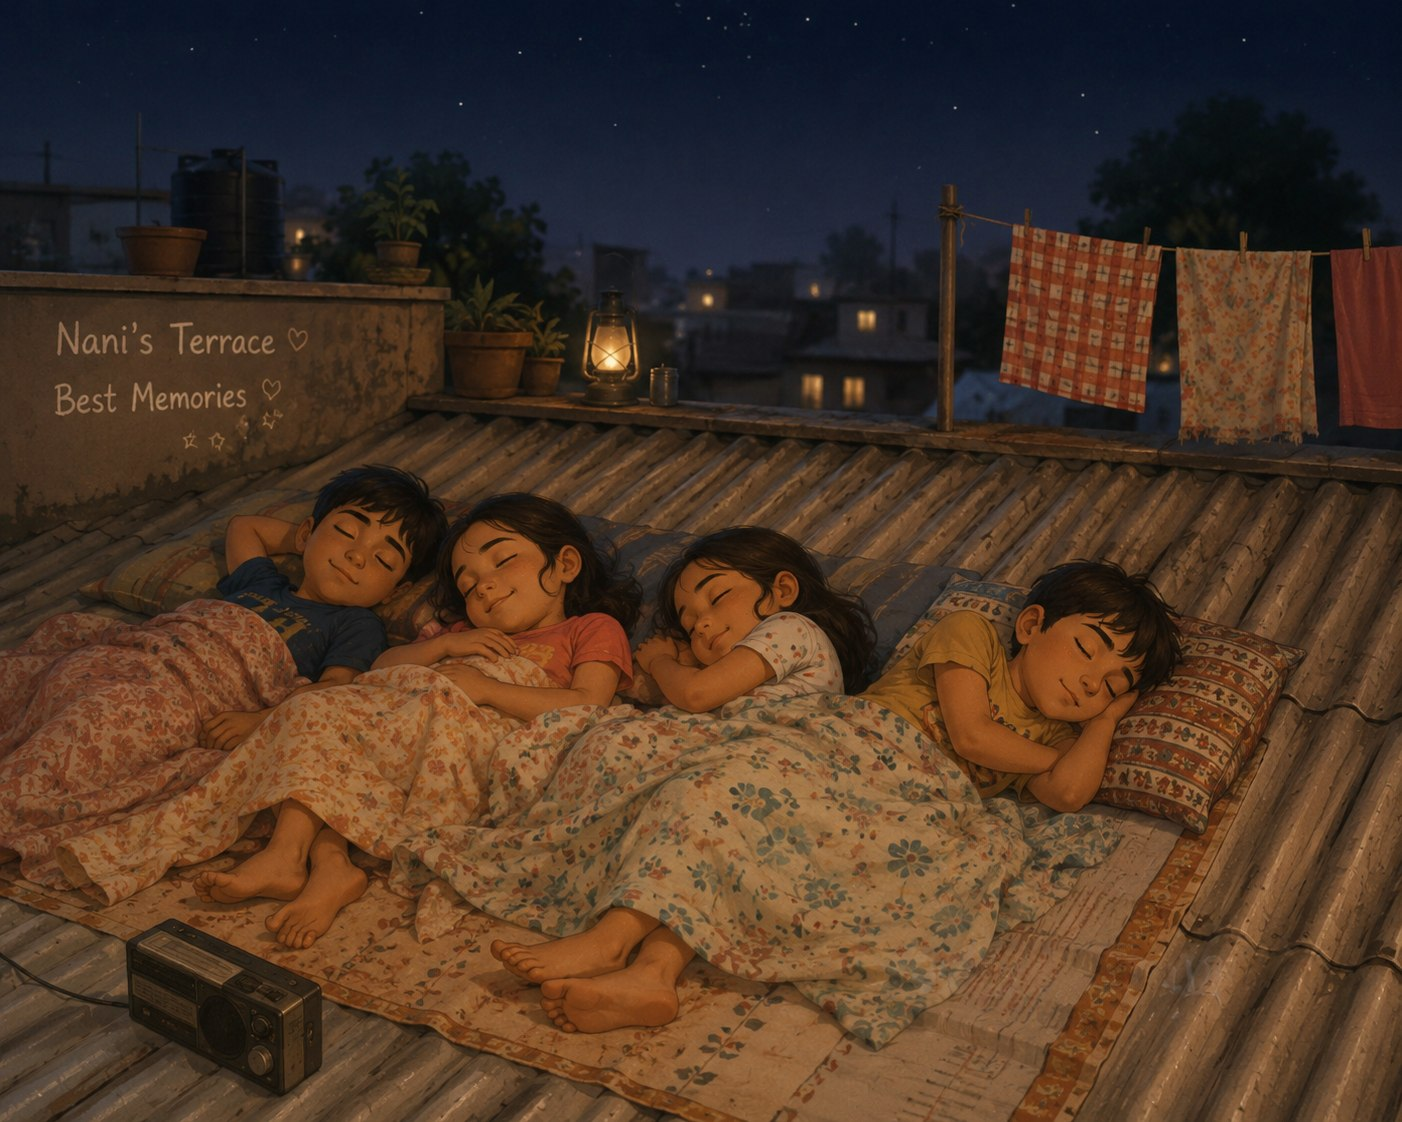
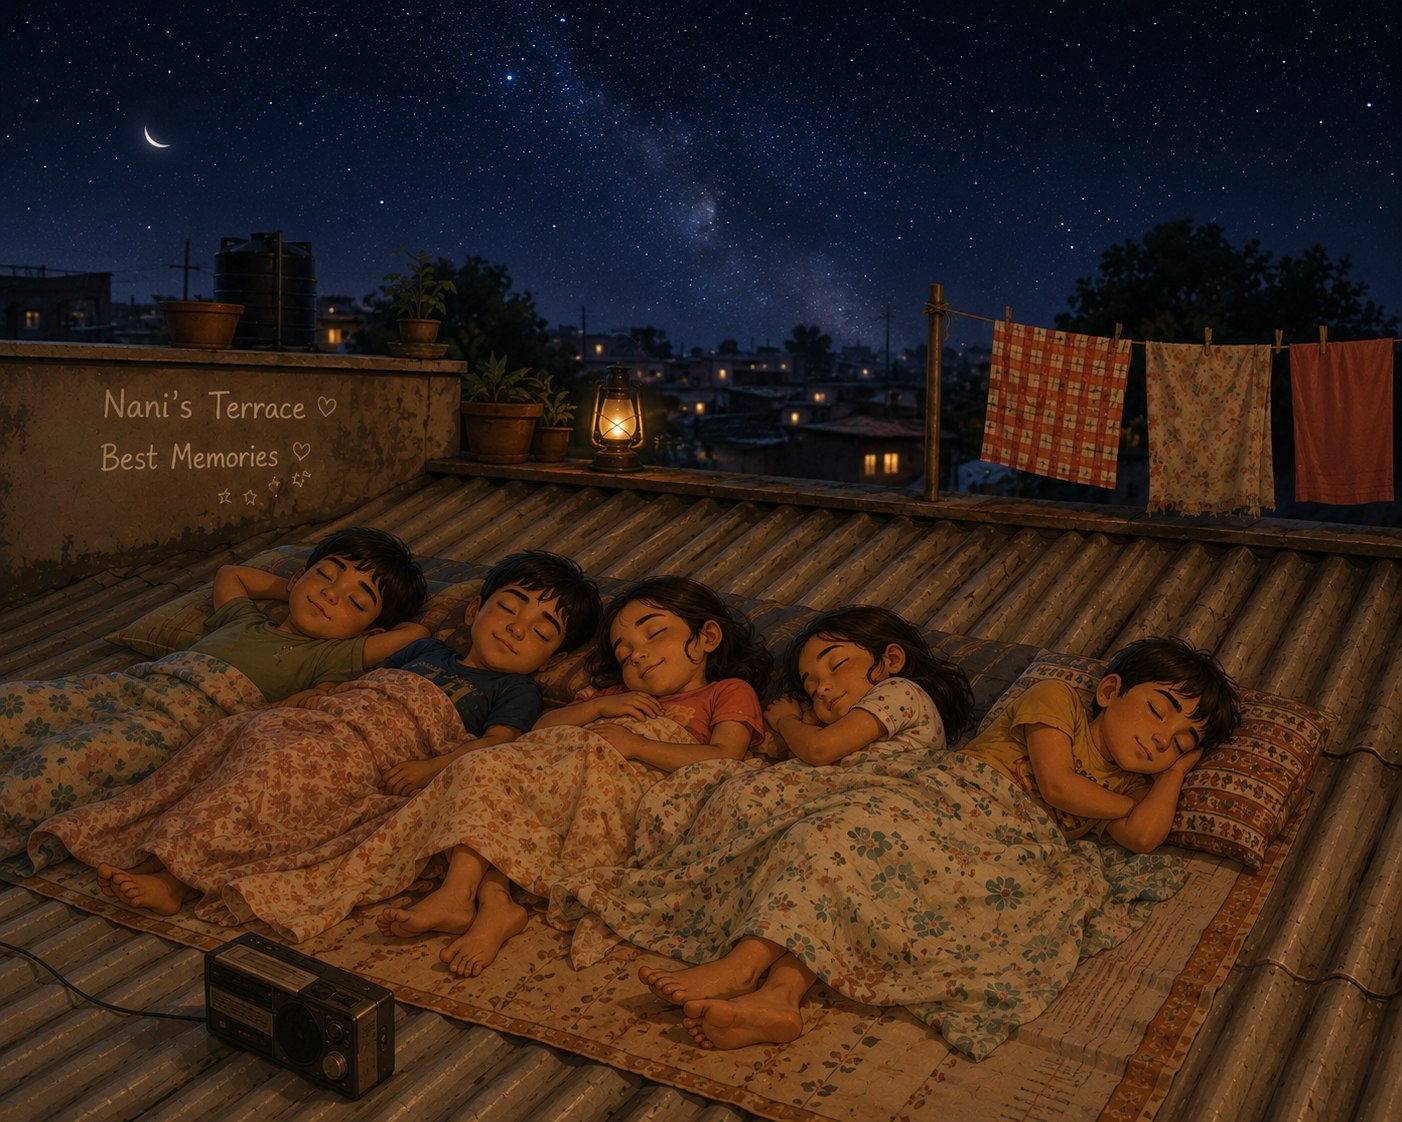
Five cousins on the terrace, not four
Swap in the new artwork, move the lantern glow to where the lantern
now sits (44.3%/36.7%), and correct the caption and alt text.

diff --git a/index.html b/index.html
@@ -141,10 +141,10 @@
   <figure class="terrace-art">
     <span class="art-frame">
       <img src="images/terrace-night.jpg" loading="lazy"
-           alt="An illustration of four cousins asleep in a row on a terrace at night, under a starry sky, with a lantern, a clothesline and an old radio">
+           alt="An illustration of five cousins asleep in a row on a terrace at night, under a starry sky and a crescent moon, with a lantern, a clothesline and an old radio">
       <span class="lantern-glow" aria-hidden="true"></span>
     </span>
-    <figcaption class="handwritten">Four cousins, one long mattress, zero sleep 🌙</figcaption>
+    <figcaption class="handwritten">Five cousins, one long mattress, zero sleep 🌙</figcaption>
   </figure>
 
   <div class="chapter-text center">

diff --git a/css/style.css b/css/style.css
@@ -279,9 +279,9 @@ img { max-width: 100%; display: block; }
 }
 .lantern-glow {
   position: absolute;
-  left: 44%;
-  top: 31%;
-  width: 15%;
+  left: 44.3%;
+  top: 36.7%;
+  width: 13%;
   aspect-ratio: 1;
   transform: translate(-50%, -50%);
   border-radius: 50%;
